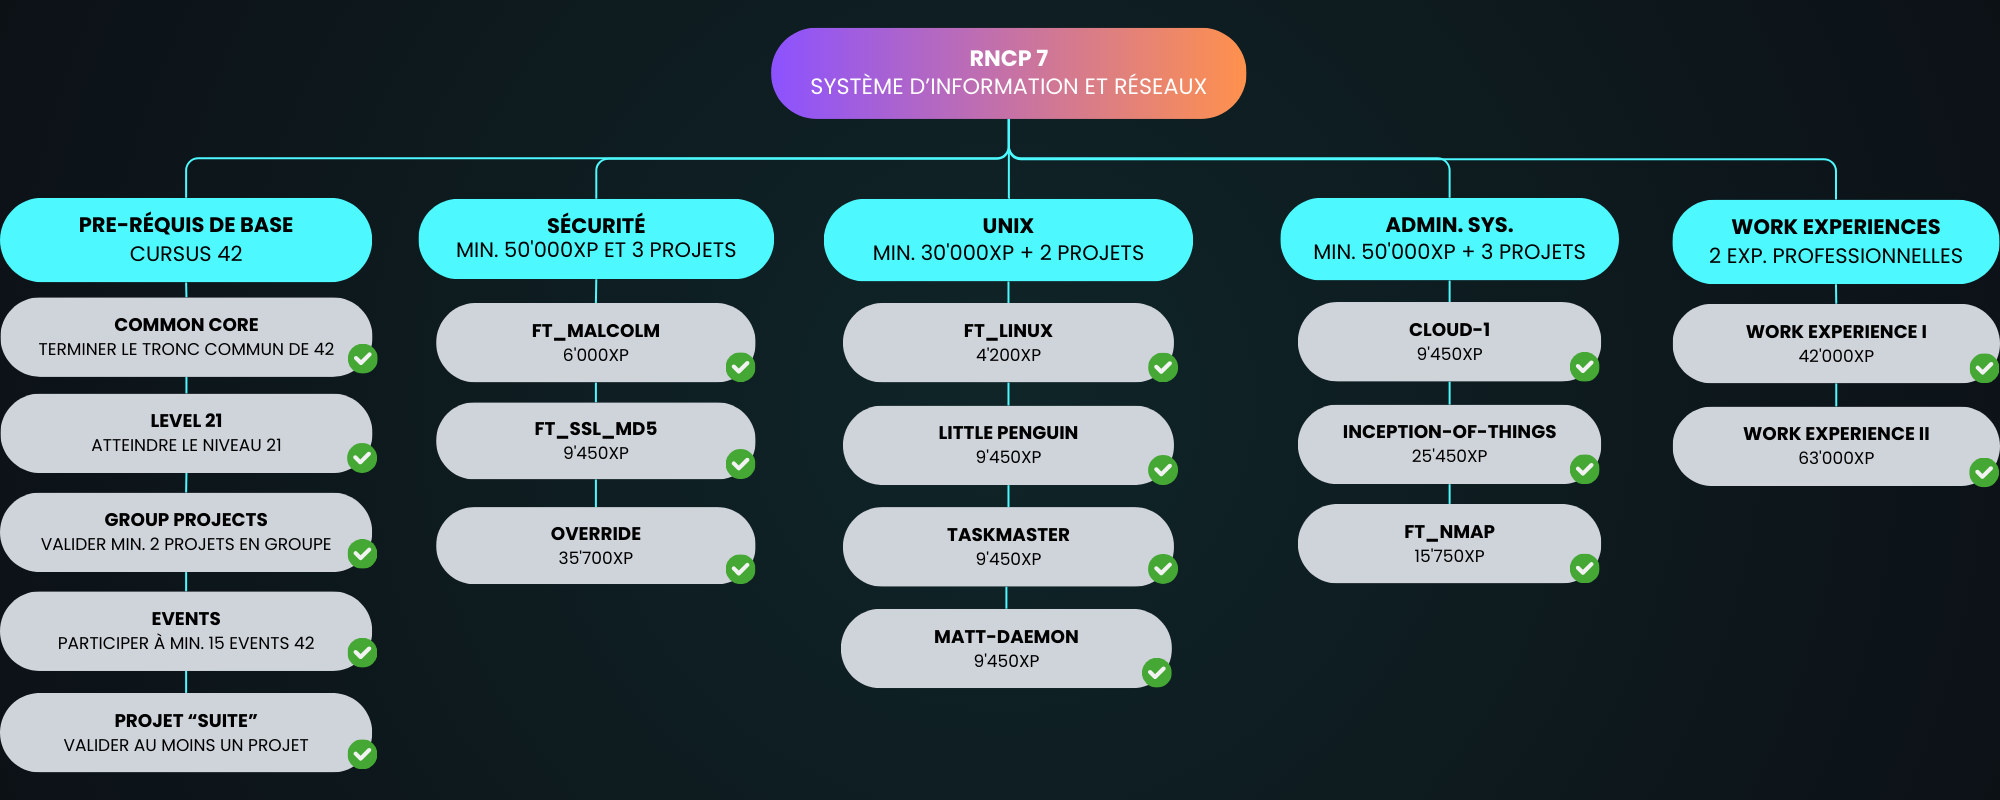
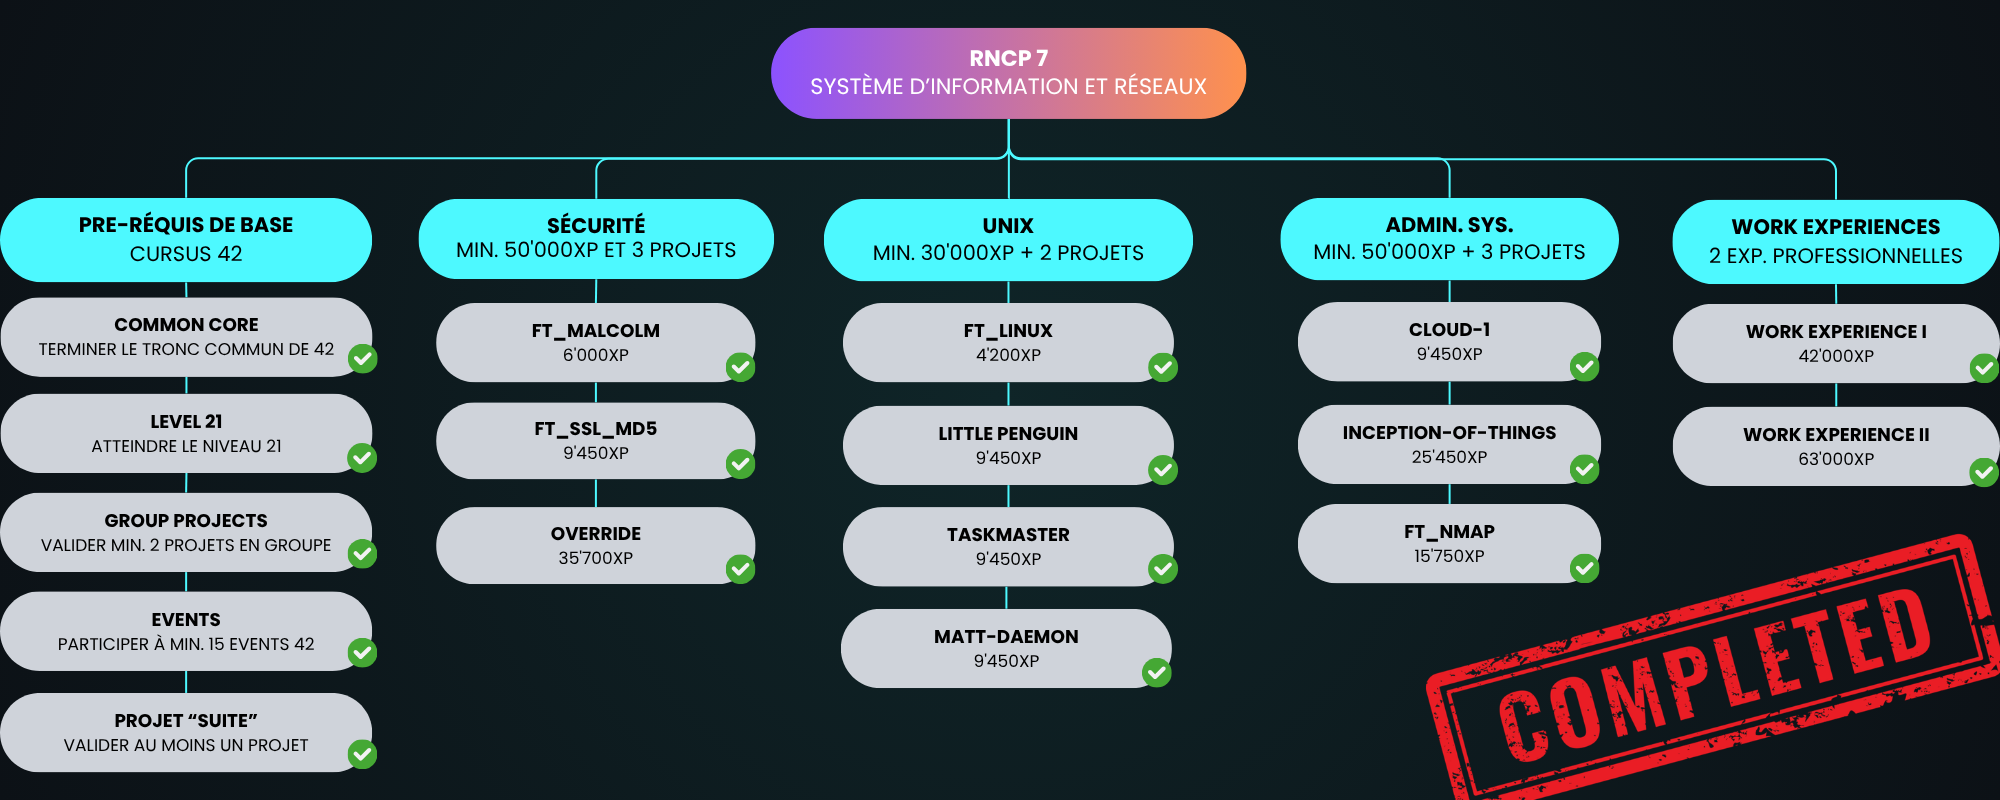
chore: clean up code structure and remove unused code blocks

diff --git a/README.md b/README.md
@@ -110,16 +110,9 @@
 Voir la fiche officielle du RNCP6 [ici](https://www.francecompetences.fr/recherche/rncp/39783/) (site officiel du gouvernement français)  
 Documentation du RNCP6 pour les etudiants de 42 [ici](https://meta.intra.42.fr/articles/rncp-6-certificate)  
 
-**Objectif** : Obtenir le **RNCP6 option Développement Web et Mobile**
+**Objectif** : Obtenir le **RNCP6 option Développement Web et Mobile** - prévu pour 10.2026
 
-<img src="_git_utils/RNCP6-1.png" alt="RNCP6 Banner" style="width: 100%">
-
-<br>
-
-**Objectif** : Obtenir le **RNCP6 option Développement d'Applications**
-
-<img src="_git_utils/RNCP6-2.png" alt="RNCP6 Banner" style="width: 100%">
-
+<img src="_git_utils/RNCP6.png" alt="RNCP6 Banner" style="width: 100%">
 
 <br>
 <br>
@@ -130,7 +123,7 @@ Documentation du RNCP6 pour les etudiants de 42 [ici](https://meta.intra.42.fr/a
 Voir la fiche officielle du RNCP7 [ici](https://www.francecompetences.fr/recherche/rncp/39774/) (site officiel du gouvernement français)  
 Documentation du RNCP7 pour les etudiants de 42 [ici](https://meta.intra.42.fr/articles/rncp-7-certificate)  
 
-**Objectif** : Obtenir le **RNCP7 option Système d'Information et Réseaux**
+**RNCP7 option Système d'Information et Réseaux** obtenu - 04.2026
 
 <img src="_git_utils/RNCP7.png" alt="RNCP7 Banner" style="width: 100%">
 
